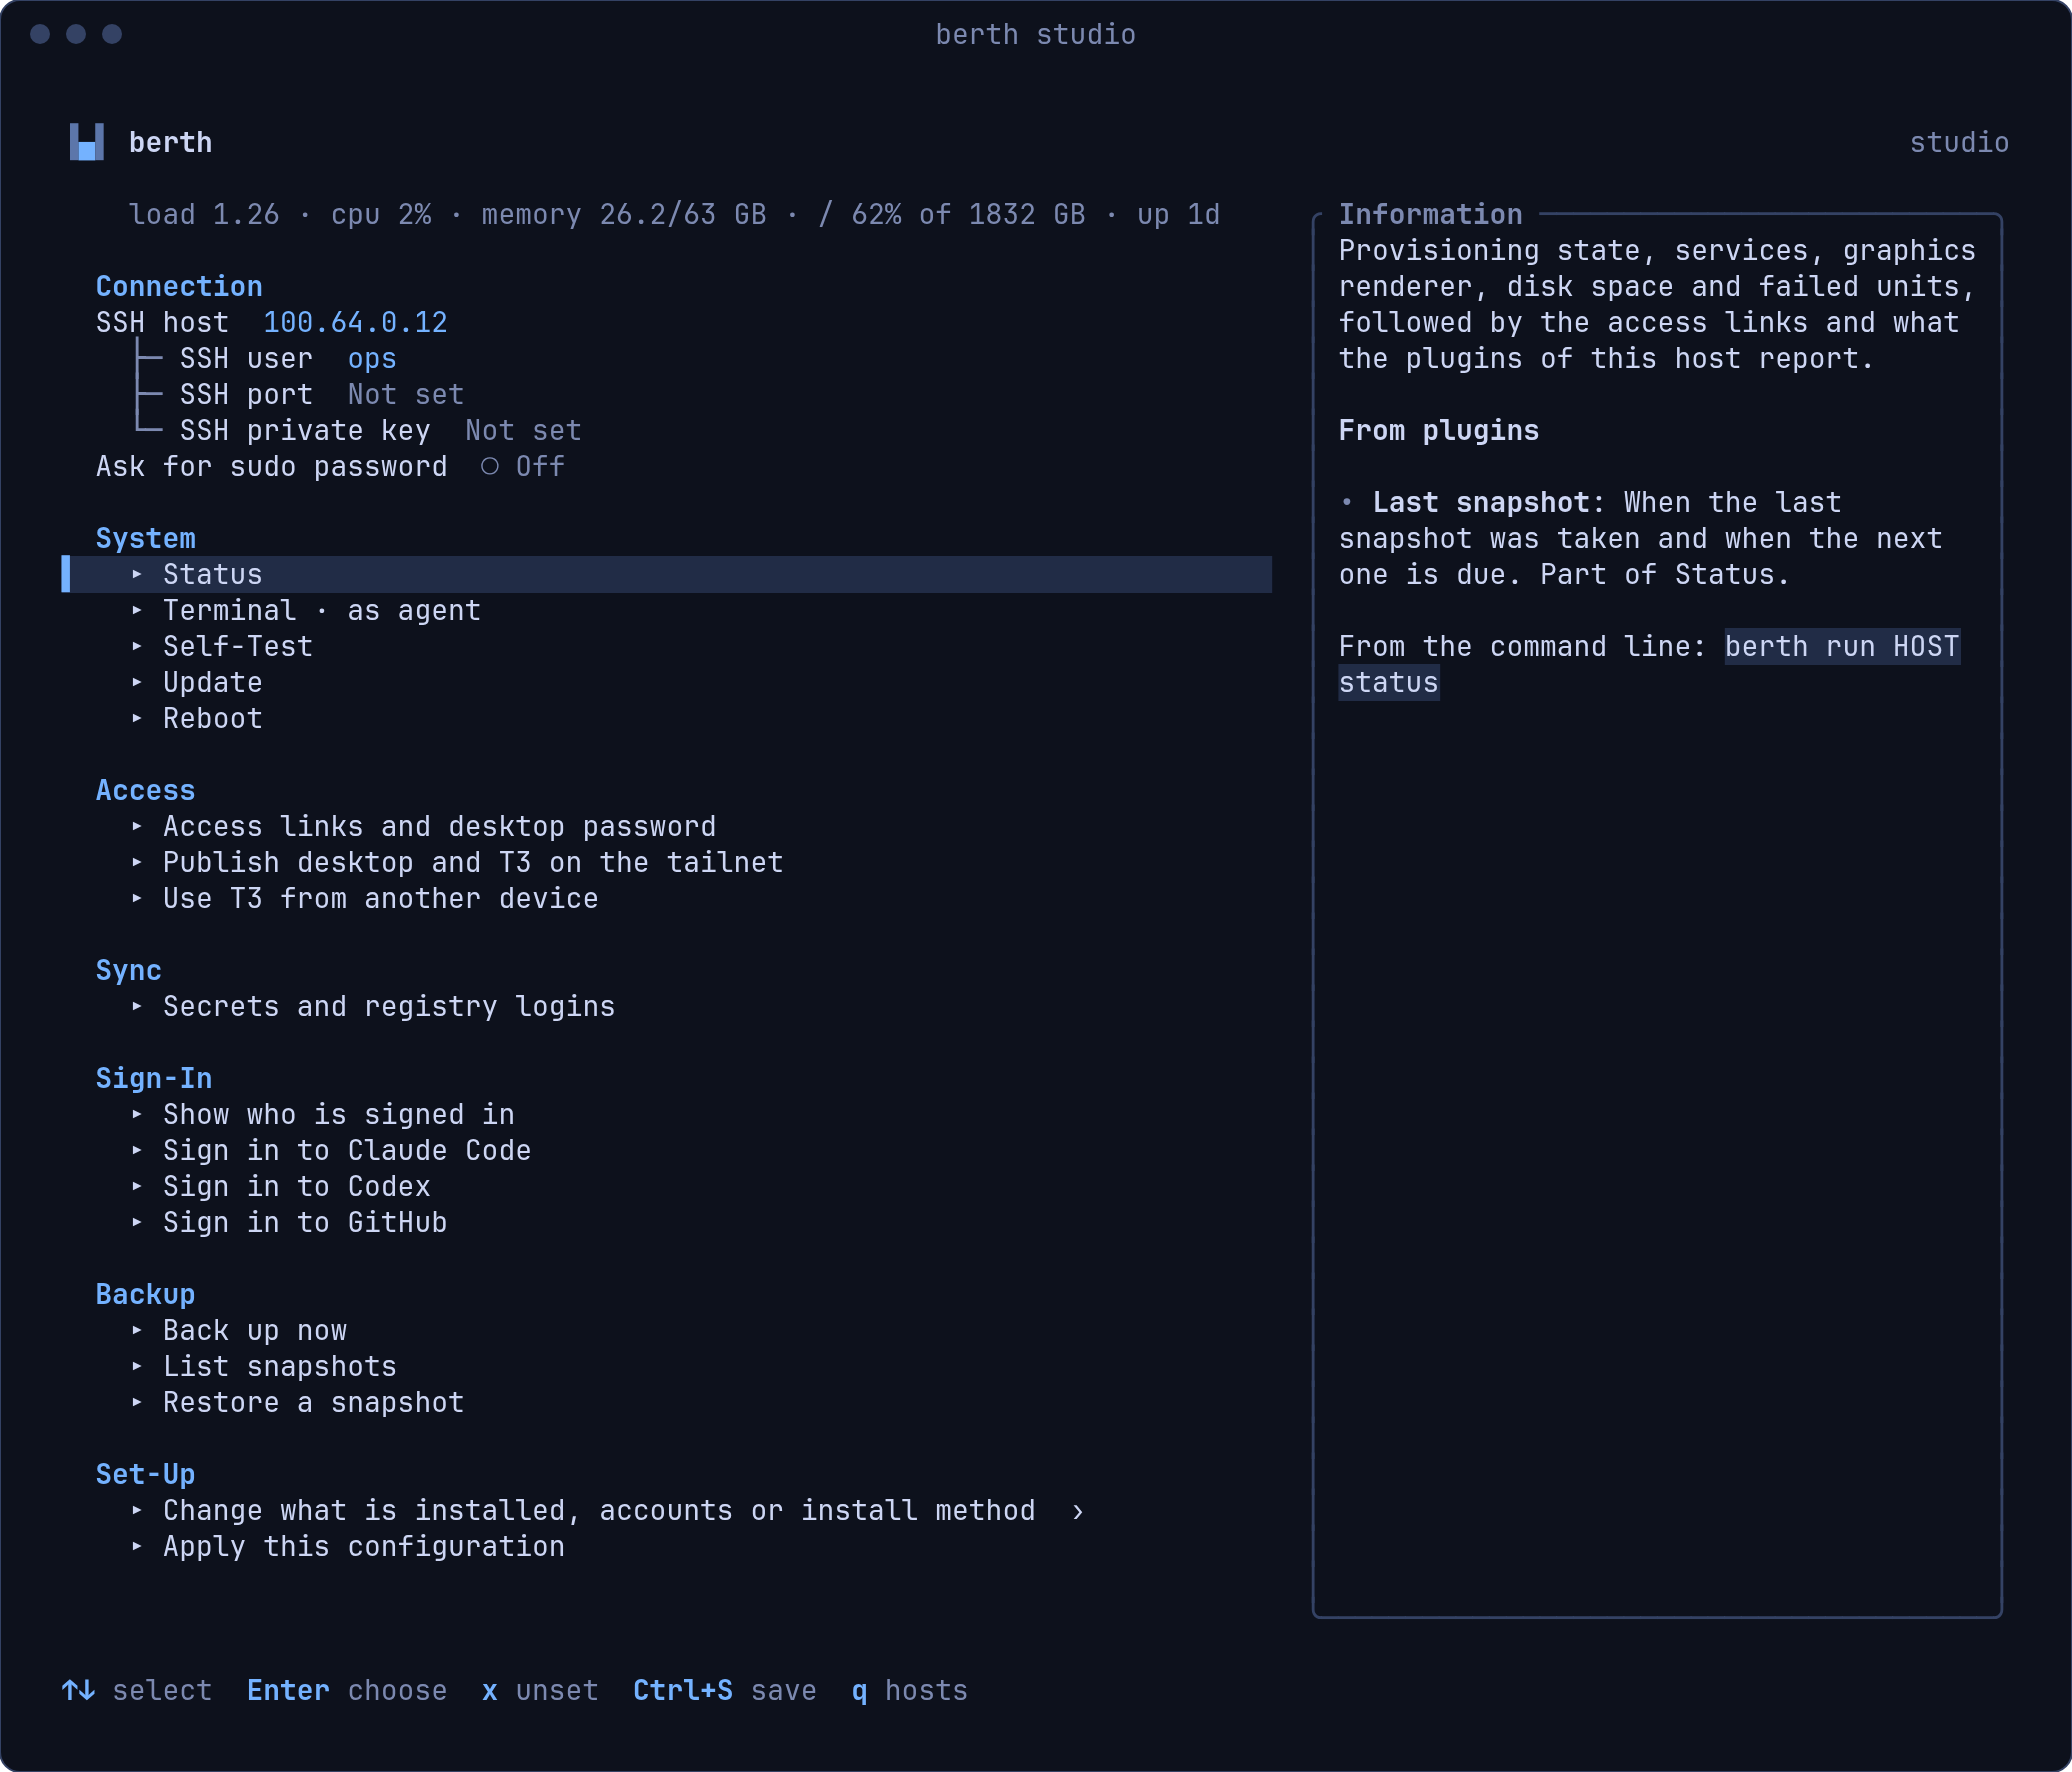
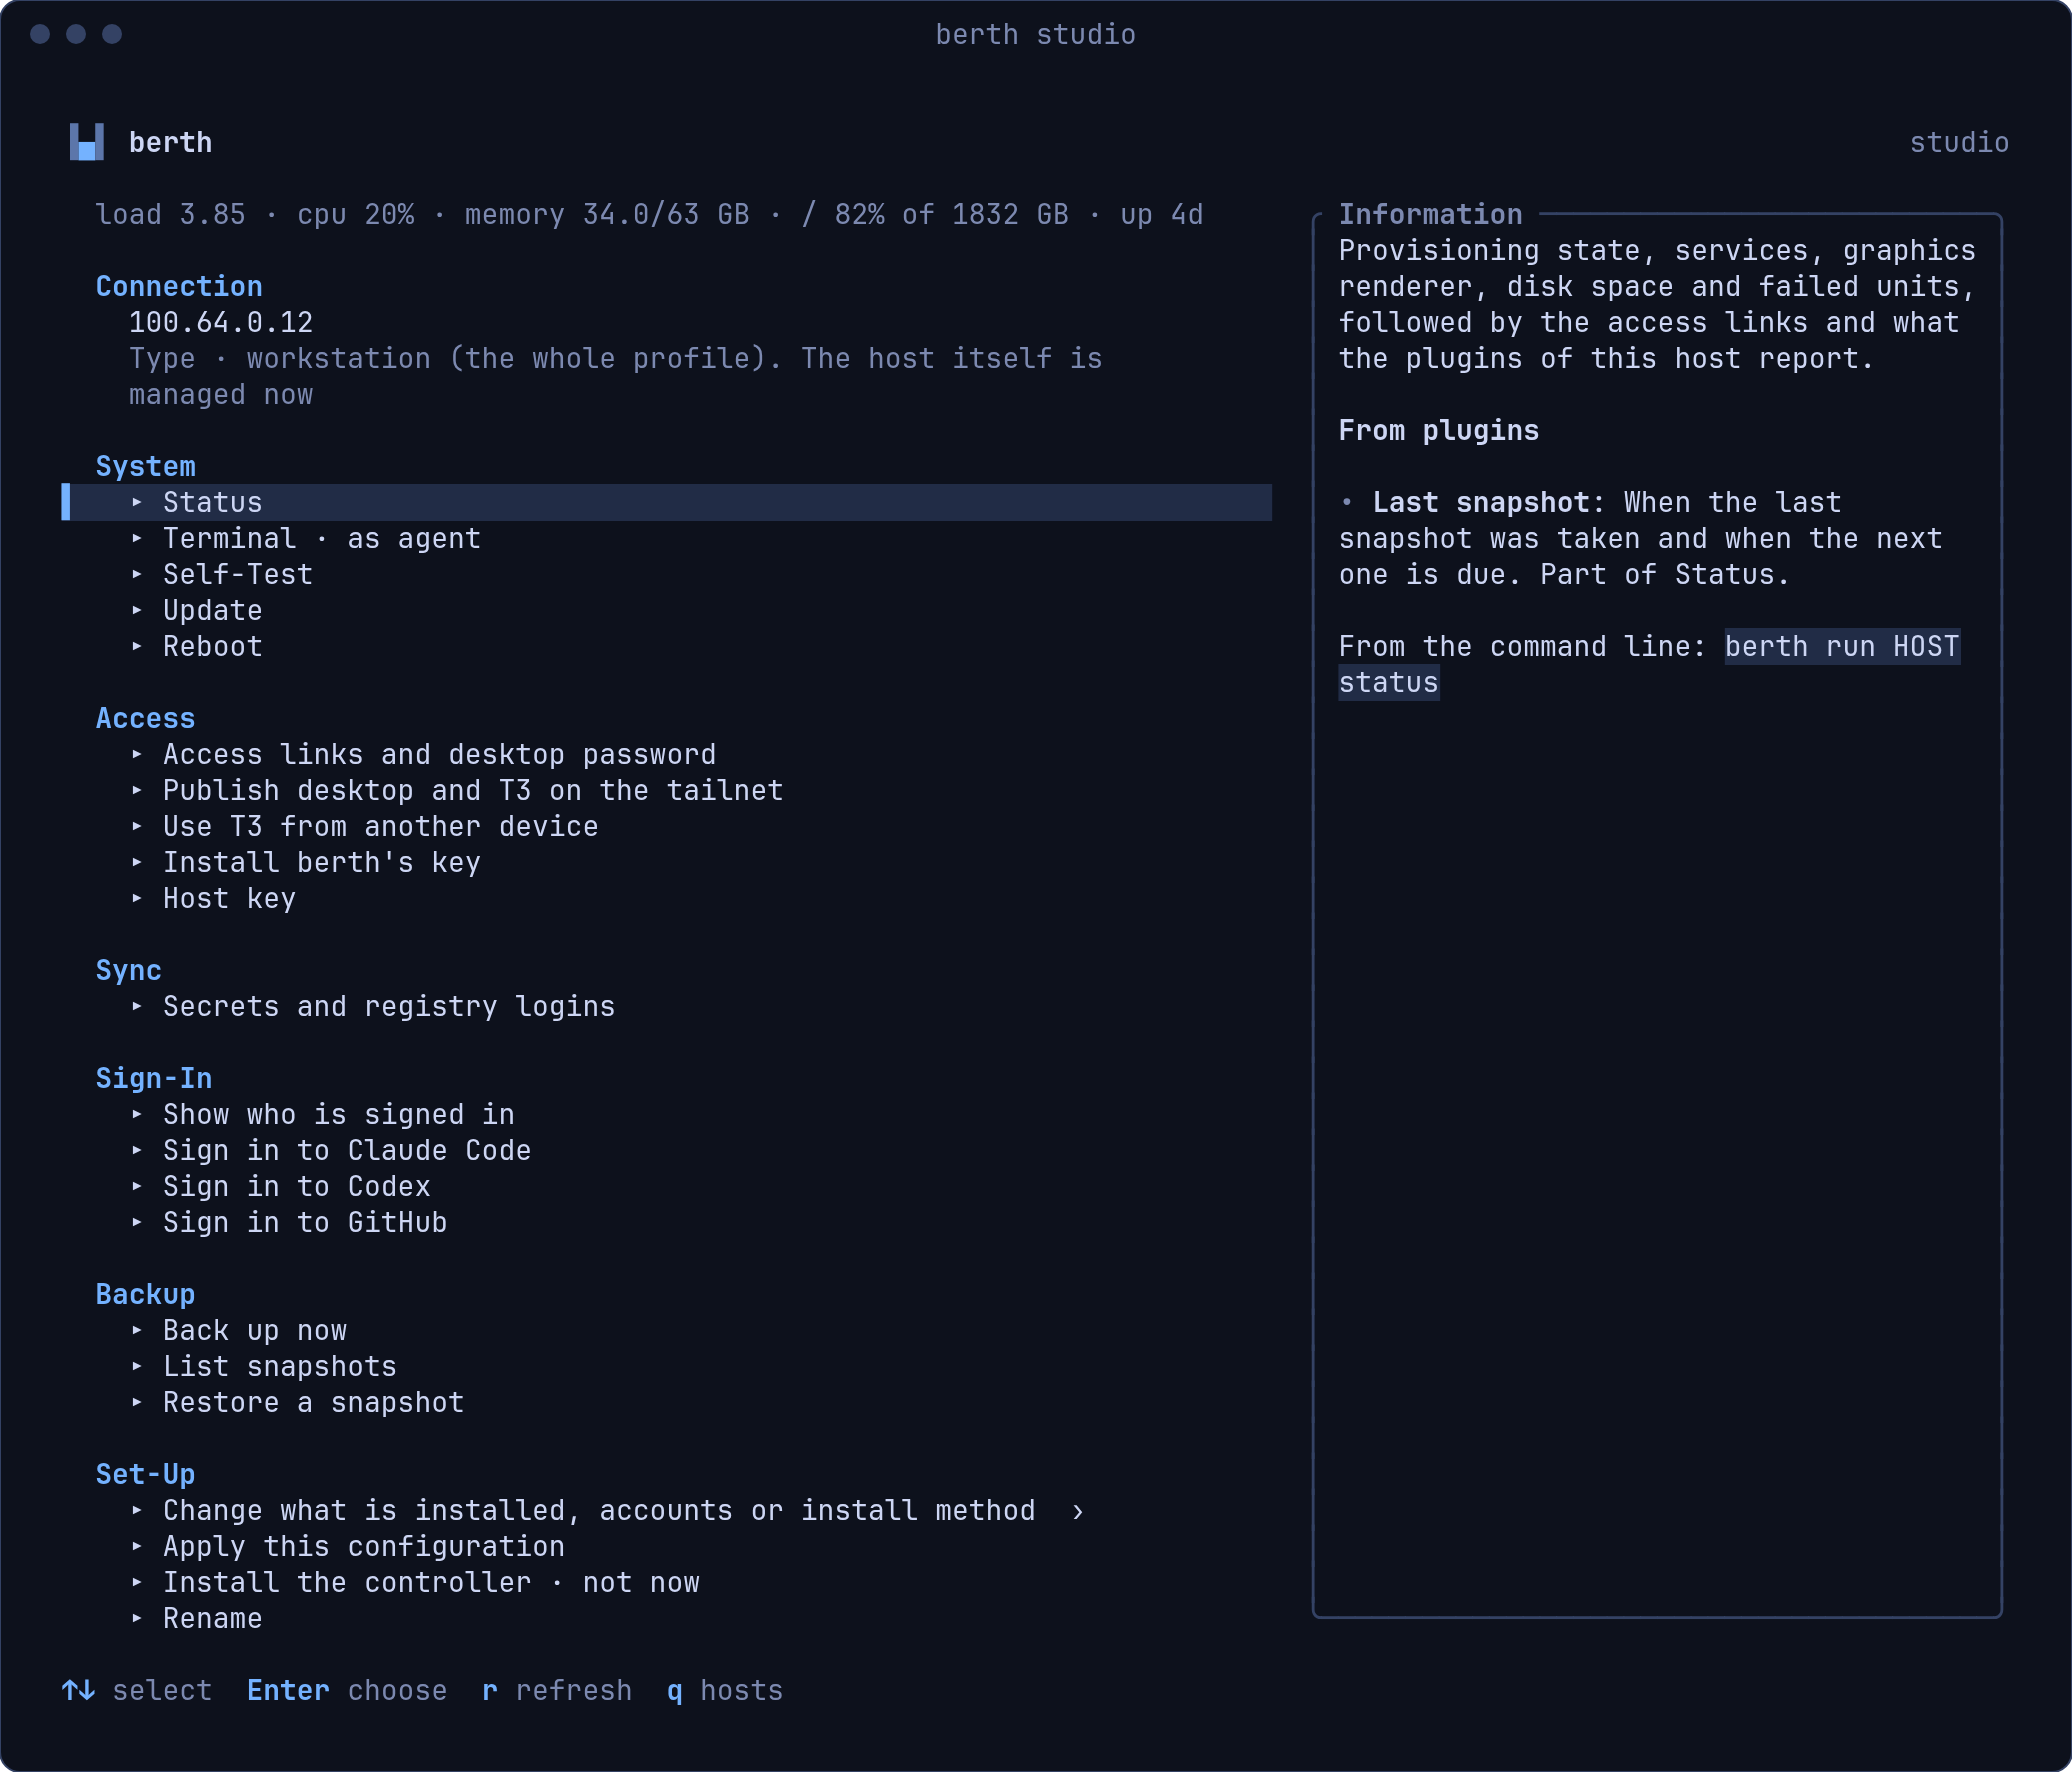
docs: one berth with its screens on every system
The terminal UI, server, install, USB and building pages describe the
screens over a server, the one inside berth on Linux, and berth on macOS
and Windows. The screenshots are made again.

diff --git a/docs/scripts/screens.py b/docs/scripts/screens.py
@@ -2,7 +2,7 @@
 """Terminal screenshots for the documentation, in docs/public/screens/.
 
 Runs the built berth binary (target/debug/berth) in a pseudo-terminal against an
-invented set-up and writes what the terminal shows as PNG, in the UI's colours.
+invented set-up, its screens with the server inside berth, and writes what the terminal shows as PNG, in the UI's colours.
 Each picture is drawn as SVG first, then rendered by headless Chrome at twice the
 size with JetBrains Mono (docs/scripts/fonts, SIL OFL) embedded, so the text looks
 the same wherever the PNG is shown. Only the PNGs are kept.
@@ -537,7 +537,12 @@ def shlex_quote(text):
 # Downs from the top of a host's Settings tab to the fourth row of its registries
 # and secrets: past the six rows of the operator with its one key, the five of
 # the agent, and SSH hardening.
-SECRETS_DOWN = 15
+SECRETS_DOWN = 13
+
+
+# The keys from a new host's overview to its set-up tabs: past Try again to
+# Change what is installed.
+SETUP = [2.0, "<down>", "<enter>", 1.0]
 
 
 def pictures(env):
@@ -545,19 +550,20 @@ def pictures(env):
     picture shows what an earlier one left behind, such as sessions."""
     return {
         "home": (False, lambda: tui(env, "home", [], [], "berth", rows=20)),
-        "home-plugins": (False, lambda: tui(env, "home-plugins", [], ["5"], "berth: plugins")),
-        "features": (False, lambda: tui(env, "features", ["cloud-1"], ["2"], "berth cloud-1: features", rows=34)),
-        "accounts": (False, lambda: tui(env, "accounts", ["cloud-1"], ["3"], "berth cloud-1: settings", rows=26)),
-        "secrets": (False, lambda: tui(env, "secrets", ["cloud-1"], ["3"] + ["<down>"] * SECRETS_DOWN,
+        "home-plugins": (False, lambda: tui(env, "home-plugins", [], ["6"], "berth: plugins")),
+        "features": (False, lambda: tui(env, "features", ["cloud-1"], SETUP + ["2"], "berth cloud-1: features", rows=34)),
+        "accounts": (False, lambda: tui(env, "accounts", ["cloud-1"], SETUP + ["3"], "berth cloud-1: settings", rows=26)),
+        "secrets": (False, lambda: tui(env, "secrets", ["cloud-1"], SETUP + ["3"] + ["<down>"] * SECRETS_DOWN,
                                        "berth cloud-1: settings", rows=22)),
-        "install-cloud": (False, lambda: tui(env, "install-cloud", ["cloud-1"], ["<down>", "<down>", "<enter>", "4"],
+        "install-cloud": (False, lambda: tui(env, "install-cloud", ["cloud-1"],
+                                             SETUP + ["<down>", "<down>", "<enter>", "4"],
                                              "berth cloud-1: run", rows=34)),
         "list": (False, lambda: command(env, "list", ["list"])),
-        "overview": (True, lambda: tui(env, "overview", ["studio"], [2.5, "<up>"], "berth studio", rows=46)),
+        "overview": (True, lambda: tui(env, "overview", ["studio"], [2.5], "berth studio", rows=46)),
         "terminal": (True, lambda: tui(env, "terminal", ["studio"],
-                                       [2.5, "<enter>", 1.5, "id\r", "ls --color=never /srv/agent\r", 3.0],
+                                       [2.5, "<down>", "<enter>", 1.5, "id\r", "ls --color=never /srv/agent\r", 3.0],
                                        "berth studio: terminal", rows=20)),
-        "tasks": (True, lambda: command(env, "tasks", ["tasks", "studio"])),
+        "tasks": (True, lambda: command(env, "tasks", ["actions", "studio"])),
         "exec": (True, lambda: command(env, "exec", ["exec", "studio", "--", "id"])),
         "sessions": (True, lambda: command(env, "sessions", ["sessions", "studio"])),
         "host": (False, lambda: command(env, "host", ["host", "studio"])),

diff --git a/README.md b/README.md
@@ -19,7 +19,7 @@ installer on real hardware: **the installer erases the disk it selects.**
 
 ## Install
 
-On Linux x86_64:
+On Linux or macOS:
 
 ```bash
 curl -fsSL https://raw.githubusercontent.com/helightdev/berth/main/install.sh | sh
@@ -37,15 +37,11 @@ Setting up hosts also needs `ssh`, `python3` and `ansible-playbook` on your
 machine. berth is also an image, `ghcr.io/helightdev/berth`, which runs its
 local API server by default.
 
-`berth-remote` uses the hosts of a berth server from a terminal on Windows,
-macOS or Linux:
+On macOS and Windows berth uses the hosts of a berth server elsewhere, with the
+same screens. `install.sh` installs it on macOS too, and on Windows:
 
 ```powershell
-irm https://raw.githubusercontent.com/helightdev/berth/main/install.ps1 | iex   # Windows
-```
-
-```bash
-curl -fsSL https://raw.githubusercontent.com/helightdev/berth/main/install-remote.sh | sh   # macOS, Linux
+irm https://raw.githubusercontent.com/helightdev/berth/main/install.ps1 | iex
 ```
 
 ## Quick start

diff --git a/recipes/berth-server/README.md b/recipes/berth-server/README.md
@@ -55,15 +55,15 @@ On your own machine, give berth the key when it asks:
 berth connect https://THIS-MACHINE.YOUR-TAILNET.ts.net
 ```
 
-Or start [berth-remote](https://github.com/helightdev/berth/tree/main/crates/berth-remote)
-with the key in `BERTH_SETUP_KEY`:
+Or open berth's screens with the key in `BERTH_SETUP_KEY`, on Linux, macOS
+or Windows:
 
 ```bash
 read -rs BERTH_SETUP_KEY && export BERTH_SETUP_KEY
-berth-remote --server https://THIS-MACHINE.YOUR-TAILNET.ts.net
+berth --server https://THIS-MACHINE.YOUR-TAILNET.ts.net
 ```
 
-berth-remote signs in and shows the token. `tailscale serve status` on
+The screens sign in and show the token. `tailscale serve status` on
 the machine says the address. Make a new key on the machine at any time:
 
 ```bash

diff --git a/.github/CONTRIBUTING.md b/.github/CONTRIBUTING.md
@@ -109,9 +109,9 @@ A pull request is ready when:
   vale --minAlertLevel=warning "docs/content/docs/(guide)" README.md AGENTS.md
   ```
 
-- berth and berth-remote do the same things with a server's hosts. A feature
-  added to one is added to the other, with the shared part in
-  `crates/berth-tui`.
+- The screens do everything through the API of a server, whichever it is. A
+  feature of theirs is an operation or an action of the server first, and
+  then their part in `crates/berth-page` and `crates/berth-tui`.
 - Commits follow [Conventional Commits](https://www.conventionalcommits.org/),
   with a short subject that says what changed.
 - The pull request links its issue and stays within it. Leave unrelated

diff --git a/.agents/skills/install-berth/SKILL.md b/.agents/skills/install-berth/SKILL.md
@@ -161,7 +161,7 @@ The recipes make a key on the first run and print it at the end. Give the
 user the key and the address, which `tailscale serve status` shows:
 
 1. On their own machine they run `berth connect https://THIS-MACHINE.YOUR-TAILNET.ts.net` and enter the key.
-2. Or they run `berth-remote --server https://THIS-MACHINE.YOUR-TAILNET.ts.net` with the key in `BERTH_SETUP_KEY`. It works on Windows and macOS too.
+2. Or they run `berth --server https://THIS-MACHINE.YOUR-TAILNET.ts.net` with the key in `BERTH_SETUP_KEY`, which opens the screens. It works on Windows and macOS too.
 
 The key ends when they choose Done, or when `berth connect` has saved the token.
 

diff --git a/recipes/incus-host/README.md b/recipes/incus-host/README.md
@@ -120,11 +120,11 @@ or until they choose Done. On your own machine:
 berth connect https://THIS-MACHINE.YOUR-TAILNET.ts.net
 ```
 
-berth asks for the key. berth-remote takes it in `BERTH_SETUP_KEY` instead:
+berth asks for the key. Its screens take it in `BERTH_SETUP_KEY` instead:
 
 ```bash
 read -rs BERTH_SETUP_KEY && export BERTH_SETUP_KEY
-berth-remote --server https://THIS-MACHINE.YOUR-TAILNET.ts.net
+berth --server https://THIS-MACHINE.YOUR-TAILNET.ts.net
 ```
 
 Make a new key with `sudo docker exec berth berth setup-key`.

diff --git a/.github/PULL_REQUEST_TEMPLATE.md b/.github/PULL_REQUEST_TEMPLATE.md
@@ -11,5 +11,5 @@ Issue: #
 - [ ] `ci/run.sh all` passes
 - [ ] Tried on a real host as well as in the containers (say which kind above)
 - [ ] Documentation is updated and Vale doesn't report warnings
-- [ ] berth and berth-remote both have it, where it applies
+- [ ] The screens do it through the API, and the client build for macOS and Windows still checks
 - [ ] I read every line of this change myself

diff --git a/recipes/README.md b/recipes/README.md
@@ -14,7 +14,7 @@ with `ansible-core`, and share the tasks in `shared/`.
 
 The recipes that set up a berth server end with a setup key. With it the
 first user collects the server's token, with `berth connect URL` or with
-`berth-remote`, so the token never has to be read out or passed on.
+berth's screens, so the token never has to be read out or passed on.
 
 ## Get the recipes
 
